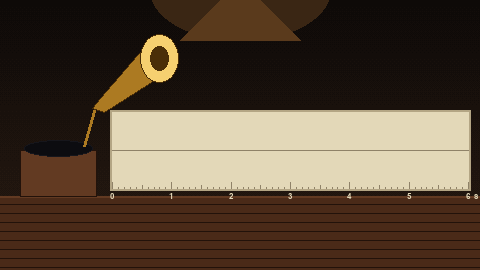
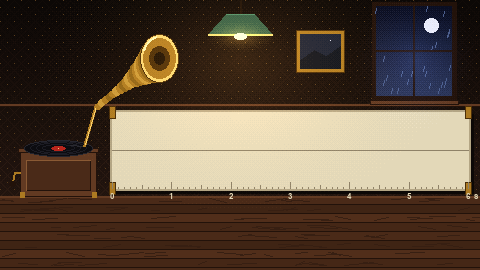
Visual pass on the Midnight Fall cold open and labs
Cold open: the manor's own tower at 2x in shadow, tilting up to the clock;
lightning lifts the shadow and shows the figure against the clock face.
Tower lab: per-block stone lit from the moon, clouds, the manor's roofline
behind the courtyard, lit arched doors with glow, corbelled balconies,
folded banners, wet cobbles, a banded surveyor's pole. Gramophone lab:
damask wallpaper, rainy window, green lamp light, plank desk, a banded
brass horn, a panelled cabinet, the strip pinned with brass clips.
fall_layout.json is unchanged, so the physics still lines up.

diff --git a/game/src/scenes/ColdOpen.ts b/game/src/scenes/ColdOpen.ts
@@ -11,7 +11,9 @@ let played = false;
 /** True once the cold open has played (or been skipped) in this page load. */
 export const coldOpenDone = () => played;
 
-const TOWER = { x: 340, top: 46 };
+// bx, top: the clock in manor_glitch (x 510, y 27) and on screen at 2x; TILT: how far below it the shot starts
+const TOWER = { x: 340, bx: 510, top: 54 };
+const TILT = 80;
 
 export class ColdOpen extends Phaser.Scene {
   private synths: Tone.ToneAudioNode[] = [];
@@ -25,17 +27,17 @@ export class ColdOpen extends Phaser.Scene {
     this.over = false;
     makePixel(this);
     this.add.rectangle(0, 0, W, H, 0x03040c).setOrigin(0).setDepth(0);
-    const sky = this.add.rectangle(0, 0, W, H, 0xb8c4dc).setOrigin(0).setAlpha(0).setDepth(1);
-
-    // the tower, a dark shape; the clock face glows a little
-    const g = this.add.graphics().setDepth(2);
-    g.fillStyle(0x0a0d22).fillRect(TOWER.x - 34, TOWER.top, 68, H - TOWER.top);
-    g.fillTriangle(TOWER.x - 40, TOWER.top, TOWER.x, TOWER.top - 40, TOWER.x + 40, TOWER.top);
-    const face = this.add.circle(TOWER.x, TOWER.top + 24, 15, 0xf0e6bc, 0.55).setDepth(3);
-    this.add.graphics().setDepth(3).lineStyle(1, 0x0a0d22).lineBetween(TOWER.x, TOWER.top + 24, TOWER.x, TOWER.top + 12);
-    // the figure on a balcony: small, dark, and no balcony drawn, so nobody knows which
-    const figure = this.add.graphics().setDepth(4).setAlpha(0);
-    figure.fillStyle(0x03040c).fillRect(TOWER.x - 4, 138, 8, 20).fillCircle(TOWER.x, 134, 5);
+    // the manor's own tower at 2x, held in shadow; the shot tilts up from the courtyard to the clock
+    const g = this.add.container(0, -TILT).setDepth(2);
+    g.add(this.add.image(TOWER.x - TOWER.bx * 2, 0, "manor_glitch").setOrigin(0).setScale(2));
+    const shade = this.add.rectangle(0, 0, W, H, 0x03040c, 0.55).setOrigin(0).setDepth(2.5);
+    const sky = this.add.rectangle(0, 0, W, H, 0xb8c4dc).setOrigin(0).setAlpha(0).setDepth(2.6).setBlendMode(Phaser.BlendModes.ADD);
+    const face = this.add.circle(TOWER.x, TOWER.top, 22, 0xf0e6bc, 0.25).setBlendMode(Phaser.BlendModes.ADD);
+    // the figure, a silhouette on the clock ledge: no balcony, so nobody knows which
+    const figure = this.add.graphics().setAlpha(0);
+    figure.fillStyle(0x03040c).fillRect(TOWER.x - 5, TOWER.top + 4, 10, 22).fillCircle(TOWER.x, TOWER.top - 1, 6);
+    g.add([face, figure]);
+    this.tweens.add({ targets: g, y: 0, duration: 8600, ease: "Sine.easeInOut" });
 
     this.add.particles(0, 0, "px", {
       x: { min: 0, max: W + 40 }, y: -10, speedY: { min: 320, max: 400 }, speedX: -50, lifespan: 800, frequency: 16, quantity: 2,
@@ -43,19 +45,21 @@ export class ColdOpen extends Phaser.Scene {
     }).setDepth(6);
 
     const flash = (ms: number) => {
-      sky.setAlpha(0.92);
+      sky.setAlpha(0.35);
+      shade.setAlpha(0);
       this.tweens.add({ targets: sky, alpha: 0, duration: ms, ease: "Quad.easeOut" });
+      this.tweens.add({ targets: shade, alpha: 0.55, duration: ms * 1.6, ease: "Quad.easeIn" });
     };
 
     // the timeline, in ms from the start
     const at = (ms: number, fn: () => void) => this.time.delayedCall(ms, () => { if (!this.over) fn(); });
-    at(800, () => this.tweens.add({ targets: face, alpha: 0.85, duration: 1200 }));
+    at(800, () => this.tweens.add({ targets: face, alpha: 0.5, duration: 1200 }));
     for (let n = 0; n < 12; n++) at(1600 + n * 600, () => { this.bell(n === 11); this.tweens.add({ targets: face, scale: 1.12, duration: 90, yoyo: true }); });
     at(9200, () => { figure.setAlpha(1); flash(420); sfx("rumble"); });
     at(9800, () => figure.setAlpha(0));
     at(10600, () => this.cry());
     at(12100, () => { sfx("thunk"); this.cameras.main.shake(120, 0.01); });
-    at(12400, () => this.tweens.add({ targets: [face, g], alpha: 0, duration: 200 }));
+    at(12400, () => this.tweens.add({ targets: g, alpha: 0, duration: 200 }));
     at(13000, () => {
       const title = this.add.text(W / 2, H / 2, "THE MIDNIGHT FALL", { fontFamily: DISPLAY, fontSize: "26px", color: "#F2E9CF" })
         .setOrigin(0.5).setAlpha(0).setDepth(20);

diff --git a/art/world/build_fall_labs.py b/art/world/build_fall_labs.py
@@ -54,45 +54,119 @@ def y_of(m):
     return round(GROUND - m * PX_PER_M)
 
 
+BAYER = np.array([[0, 8, 2, 10], [12, 4, 14, 6], [3, 11, 1, 9], [15, 7, 13, 5]]) / 16.0
+
+
+def light(im, cx, cy, rx, ry, col, k, mix=False):
+    """A soft elliptical pool of light (added) or haze (mixed toward col), quantised in dithered steps."""
+    a = np.asarray(im).astype(float)
+    h, w = a.shape[:2]
+    yy, xx = np.mgrid[0:h, 0:w]
+    f = np.clip(1 - np.hypot((xx - cx) / rx, (yy - cy) / ry), 0, 1) ** 2 * k
+    f = (np.floor(f * 6 + BAYER[yy % 4, xx % 4]) / 6)[..., None]
+    c = np.array(_rgb(col), float)
+    a[..., :3] = a[..., :3] * (1 - f) + c * f if mix else a[..., :3] + c * f
+    return Image.fromarray(np.clip(a, 0, 255).astype(np.uint8), "RGBA")
+
+
+def shade(hexcol, k):
+    return tuple(int(min(255, v * k)) for v in _rgb(hexcol))
+
+
 def lab_tower():
-    im = sky(W, H, NIGHT, NIGHT2)
-    d = ImageDraw.Draw(im)
     rng = np.random.default_rng(5)
-    for _ in range(40):
-        x, y = rng.integers(0, W), rng.integers(0, 150)
-        d.point((x, y), fill="#C9D8FF" if rng.random() < 0.5 else "#5A6A9A")
-    d.ellipse((400, 20, 418, 38), fill="#D8DCEC")
-    d.ellipse((404, 25, 409, 30), fill="#9AA0B8")
-    # the tower, in coursed stone, with the clock at the top
-    d.rectangle((TOWER_L, 20, WALL_X, GROUND), fill=STONE)
+    im = sky(W, H, "#04050C", "#1C1E36")
+    # moon, clouds catching its light, a far ridge and the manor's dark roofline behind the courtyard
+    im = light(im, 409, 29, 70, 60, "#2A3458", 0.9)
+    for cx, cy, rx, ry in ((330, 46, 110, 9), (440, 70, 90, 7), (90, 30, 120, 8), (250, 96, 140, 6)):
+        im = light(im, cx, cy, rx, ry, "#3A4468", 0.85, mix=True)
+    d = ImageDraw.Draw(im)
+    for _ in range(70):
+        x, y = rng.integers(0, W), rng.integers(0, 140)
+        d.point((x, y), fill="#C9D8FF" if rng.random() < 0.4 else "#5A6A9A")
+    d.ellipse((400, 20, 418, 38), fill="#E4E6F2")
+    d.ellipse((404, 25, 409, 30), fill="#A8AEC6")
+    d.ellipse((411, 30, 414, 33), fill="#B8BED4")
+    d.polygon([(0, 214), (60, 200), (130, 206), (240, 196), (330, 204), (420, 194), (480, 202), (480, GROUND), (0, GROUND)],
+              fill="#10121E")
+    for x0, x1, top in ((270, 330, 214), (330, 400, 208), (400, 480, 216)):
+        d.rectangle((x0, top, x1, GROUND), fill="#0B0C16")
+        d.polygon([(x0 - 4, top), (x1 + 4, top), ((x0 + x1) / 2, top - 14)], fill="#0B0C16")
+        for wx in range(x0 + 8, x1 - 6, 16):
+            if rng.random() < 0.45:
+                d.rectangle((wx, top + 10, wx + 3, top + 15), fill="#C08A40")
+    # the tower: coursed stone, each block its own tone, lit from the moon on the right
+    tones = ["#2A2A36", "#30303E", "#383846", "#40404E", "#4A4A5A"]
     for row, y in enumerate(range(20, GROUND, 6)):
-        d.line((TOWER_L, y, WALL_X, y), fill=STONE_D)
-        for x in range(TOWER_L + (5 if row % 2 else 0), WALL_X, 10):
-            d.line((x, y, x, y + 5), fill=STONE_D)
-    d.line((WALL_X, 20, WALL_X, GROUND), fill=STONE_L, width=2)
-    d.polygon([(TOWER_L - 4, 20), (WALL_X + 4, 20), ((TOWER_L + WALL_X) / 2, -30)], fill="#1C2232")
-    cx, cy = (TOWER_L + WALL_X) // 2, 34
+        for x in range(TOWER_L - (5 if row % 2 else 0), WALL_X, 10):
+            t = int(np.clip(rng.integers(0, 3) + (x - TOWER_L) / (WALL_X - TOWER_L) * 2.2, 0, 4))
+            d.rectangle((max(x, TOWER_L), y, min(x + 9, WALL_X - 1), y + 5), fill=tones[t])
+            d.line((max(x, TOWER_L), y, min(x + 8, WALL_X - 1), y), fill=shade(tones[t], 1.18))
+        d.line((TOWER_L, y + 5, WALL_X, y + 5), fill="#16161E")
+    d.line((WALL_X - 1, 20, WALL_X - 1, GROUND), fill="#7A8098")
+    d.line((TOWER_L, 20, TOWER_L, GROUND), fill="#121218", width=2)
+    for y in (70, 110, 170, 226):                          # arrow slits
+        d.rectangle((TOWER_L + 18, y, TOWER_L + 20, y + 9), fill="#08080E")
+    for _ in range(40):                                    # ivy at the foot
+        x, y = TOWER_L + rng.integers(-4, 40), GROUND - rng.integers(0, 50) * rng.random()
+        d.ellipse((x, y, x + 4, y + 3), fill="#1E3426" if rng.random() < 0.6 else "#2C4A34")
+    # slate roof with a ridge highlight, a cornice, and the clock in a brass ring with hour ticks
+    mx = (TOWER_L + WALL_X) / 2
+    d.polygon([(TOWER_L - 6, 20), (WALL_X + 6, 20), (mx, -30)], fill="#1C2232")
+    for k in range(1, 8):
+        y = 20 - k * 6
+        hw = (WALL_X - TOWER_L + 12) / 2 * (1 - k * 6 / 50)
+        d.line((mx - hw, y, mx + hw, y), fill="#283048")
+    d.line((mx, -30, WALL_X + 6, 20), fill="#4A5470")
+    d.rectangle((TOWER_L - 6, 19, WALL_X + 6, 22), fill="#4A4A5A", outline="#16161E")
+    cx, cy = int(mx), 36
+    d.ellipse((cx - 12, cy - 12, cx + 12, cy + 12), fill=BRASS_D)
     d.ellipse((cx - 11, cy - 11, cx + 11, cy + 11), fill=BRASS)
-    d.ellipse((cx - 9, cy - 9, cx + 9, cy + 9), fill=PAPER)
+    d.ellipse((cx - 9, cy - 9, cx + 9, cy + 9), fill="#F2E6C0")
+    for k in range(12):
+        an = k * np.pi / 6
+        d.point((cx + round(7.5 * np.sin(an)), cy - round(7.5 * np.cos(an))), fill=INK)
     d.line((cx, cy, cx, cy - 7), fill=INK, width=2)
-    # the balconies, sticking out of the front face, each under a lit door, each flying its owner's banner
+    d.line((cx, cy, cx + 4, cy + 1), fill=INK)
+    # the balconies: a lit arched door, a stone slab on a corbel, an iron rail, the owner's banner with folds
     floors = {}
     for sid, m in BALCONIES.items():
         y = y_of(m)
         floors[sid] = {"metres": m, "x": WALL_X + 18, "y": y}
-        d.rectangle((WALL_X - 14, y - 22, WALL_X - 2, y - 1), fill=CANDLE)
-        d.polygon([(WALL_X - 14, y - 22), (WALL_X - 2, y - 22), (WALL_X - 8, y - 28)], fill=CANDLE)
-        d.rectangle((WALL_X, y, WALL_X + 30, y + 3), fill=STONE_L, outline=STONE_D)
-        d.line((WALL_X + 30, y - 10, WALL_X + 30, y), fill="#6A7080", width=2)
-        d.line((WALL_X, y - 10, WALL_X + 30, y - 10), fill="#6A7080", width=2)
+        d.rectangle((WALL_X - 16, y - 24, WALL_X - 1, y), fill="#5A5A6C")
+        d.polygon([(WALL_X - 16, y - 24), (WALL_X - 1, y - 24), (WALL_X - 8, y - 31)], fill="#5A5A6C")
+        d.rectangle((WALL_X - 14, y - 22, WALL_X - 3, y - 1), fill=CANDLE)
+        d.polygon([(WALL_X - 14, y - 22), (WALL_X - 3, y - 22), (WALL_X - 8, y - 28)], fill=CANDLE)
+        d.rectangle((WALL_X - 12, y - 20, WALL_X - 5, y - 1), fill="#FFE2A0")
+        d.line((WALL_X - 9, y - 26, WALL_X - 9, y - 1), fill="#9A6428")
+        d.line((WALL_X - 14, y - 12, WALL_X - 3, y - 12), fill="#9A6428")
+        d.polygon([(WALL_X, y + 3), (WALL_X + 8, y + 3), (WALL_X, y + 10)], fill="#30303E")
+        d.rectangle((WALL_X, y, WALL_X + 30, y + 3), fill="#5A5A6C", outline="#1C1C26")
+        d.line((WALL_X, y, WALL_X + 30, y), fill="#8A90A8")
+        d.line((WALL_X + 30, y - 10, WALL_X + 30, y), fill="#2A2E38", width=2)
+        d.line((WALL_X, y - 10, WALL_X + 30, y - 10), fill="#3A4050", width=2)
+        d.line((WALL_X, y - 11, WALL_X + 30, y - 11), fill="#8A90A8")
         for x in range(WALL_X + 4, WALL_X + 30, 5):
-            d.line((x, y - 10, x, y), fill="#6A7080")
-        d.rectangle((WALL_X + 8, y + 4, WALL_X + 20, y + 18), fill=BANNER[sid])
-        d.polygon([(WALL_X + 8, y + 18), (WALL_X + 20, y + 18), (WALL_X + 14, y + 13)], fill=STONE)
-    # the courtyard: cobbles, the chalk outline 4.5 m out, a ground ruler in metres
-    d.rectangle((0, GROUND, W, H), fill=COBBLE)
-    for x in range(0, W, 7):
-        d.line((x, GROUND + 1, x + 3, H), fill=COBBLE_D)
+            d.line((x, y - 10, x, y), fill="#2A2E38")
+        b = BANNER[sid]
+        d.rectangle((WALL_X + 8, y + 4, WALL_X + 20, y + 18), fill=b)
+        d.line((WALL_X + 11, y + 5, WALL_X + 11, y + 15), fill=shade(b, 0.65))
+        d.line((WALL_X + 17, y + 5, WALL_X + 17, y + 15), fill=shade(b, 1.3))
+        d.line((WALL_X + 8, y + 4, WALL_X + 20, y + 4), fill=BRASS_L)
+        d.polygon([(WALL_X + 8, y + 18), (WALL_X + 20, y + 18), (WALL_X + 14, y + 13)], fill="#30303E")
+    for m in BALCONIES.values():
+        im = light(im, WALL_X - 8, y_of(m) - 12, 30, 26, "#7A4A14", 0.7)
+    im = light(im, mx, 36, 26, 26, "#5A4A20", 0.6)
+    d = ImageDraw.Draw(im)
+    # wet cobbles, a puddle holding the moon, the chalk outline 4.5 m out, a ground ruler in metres
+    d.rectangle((0, GROUND, W, H), fill="#14141C")
+    for r, y in enumerate(range(GROUND + 1, H, 4)):
+        for x in range(-(r % 2) * 4, W, 8):
+            d.ellipse((x, y, x + 7, y + 3), fill=["#22222E", "#282834", "#2E2E3C"][rng.integers(0, 3)])
+            d.line((x + 2, y, x + 4, y), fill="#3E4052")
+    d.ellipse((380, GROUND + 3, 452, GROUND + 9), fill="#1A2034")
+    d.line((404, GROUND + 5, 418, GROUND + 5), fill="#9AA4C8")
+    d.rectangle((WALL_X - 2, GROUND + 5, WALL_X + 222, GROUND + 20), fill="#101018")
     ox = round(WALL_X + OUTLINE_M * PX_PER_M)
     d.ellipse((ox - 16, GROUND - 1, ox + 16, GROUND + 5), outline="#F2F4FA")
     d.ellipse((ox - 24, GROUND, ox - 16, GROUND + 4), outline="#F2F4FA")
@@ -103,9 +177,12 @@ def lab_tower():
         if k % 5 == 0:
             d.text((x - 3, GROUND + 11), f"{k}", font=small, fill=PAPER)
     d.line((WALL_X, GROUND + 6, WALL_X + 220, GROUND + 6), fill=PAPER_D)
-    # the metre strip up the wall: a tick every metre, numbered every five
+    # the metre strip: a surveyor's pole up the wall, banded red every other metre, numbered every five
     sx = TOWER_L - 22
+    d.rectangle((sx - 1, y_of(21) - 1, sx + 11, GROUND), fill="#1C140C")
     d.rectangle((sx, y_of(21), sx + 10, GROUND), fill=PAPER, outline=RULE)
+    for k in range(0, 21, 2):
+        d.rectangle((sx + 7, y_of(k + 1) + 1, sx + 9, y_of(k) - 1), fill="#B8251C")
     for k in range(0, 22):
         y = y_of(k)
         d.line((sx, y, sx + (10 if k % 5 == 0 else 5), y), fill=INK)
@@ -118,26 +195,89 @@ def lab_tower():
 
 
 def lab_gramophone():
-    im = sky(W, H, "#0E0A08", "#2A1C12")
+    rng = np.random.default_rng(9)
+    im = sky(W, H, "#0C0806", "#2A1A12")
+    # damask wallpaper: a diamond lattice with a dot at every crossing
+    a = np.asarray(im).copy()
+    wall = a[:196]
+    yy, xx = np.mgrid[0:196, 0:W]
+    lat = ((xx + yy) % 14 == 0) | ((xx - yy) % 14 == 0)
+    wall[lat, :3] = (wall[lat, :3] * 1.45).clip(0, 255).astype(np.uint8)
+    wall[((xx + yy) % 14 == 7) & ((xx - yy) % 14 == 7), :3] = _rgb("#5A3E1E")
+    im = Image.fromarray(a, "RGBA")
     d = ImageDraw.Draw(im)
-    # a desk under a lamp, the gramophone on the left, a long paper strip for the trace
-    d.rectangle((0, 196, W, H), fill=WOOD)
+    d.line((0, 104, W, 104), fill=WOOD_L, width=2)
+    d.line((0, 106, W, 106), fill=WOOD_D)
+    # a tall window, moonlight and rain beyond it
+    wx0, wy0, wx1, wy1 = 376, 6, 452, 96
+    d.rectangle((wx0 - 4, wy0 - 4, wx1 + 4, wy1 + 6), fill=WOOD_D)
+    im.paste(sky(wx1 - wx0, wy1 - wy0, "#0A0E22", "#2A3456"), (wx0, wy0))
+    d = ImageDraw.Draw(im)
+    d.ellipse((424, 18, 438, 32), fill="#E4E6F2")
+    for _ in range(26):
+        x, y = rng.integers(wx0, wx1), rng.integers(wy0, wy1 - 6)
+        d.line((x, y, x - 1, y + 5), fill="#4A5C88")
+    d.rectangle((wx0, (wy0 + wy1) // 2 - 1, wx1, (wy0 + wy1) // 2), fill=WOOD_D)
+    d.rectangle(((wx0 + wx1) // 2 - 1, wy0, (wx0 + wx1) // 2, wy1), fill=WOOD_D)
+    d.rectangle((wx0 - 6, wy1 + 4, wx1 + 6, wy1 + 8), fill=WOOD_L, outline=WOOD_D)
+    # a small gilt-framed landscape
+    d.rectangle((296, 30, 344, 72), fill=BRASS, outline=BRASS_D)
+    d.rectangle((300, 34, 340, 68), fill="#1A2234")
+    d.polygon([(300, 60), (314, 50), (326, 56), (340, 46), (340, 68), (300, 68)], fill="#0E141E")
+    d.point((330, 40), fill="#D8DCEC")
+    # the hanging lamp: cord, a green glass shade, a brass rim
+    d.line((240, 0, 240, 14), fill="#1A1008", width=2)
+    d.polygon([(226, 14), (254, 14), (272, 34), (208, 34)], fill="#2E5A44")
+    d.line((226, 14, 254, 14), fill="#4A8A68")
+    d.line((208, 34, 272, 34), fill=BRASS_L, width=2)
+    d.ellipse((234, 33, 246, 39), fill="#FFF0C0")
+    # the desk: planks, each its own tone, with grain
+    for i, y in enumerate(range(196, H, 9)):
+        d.rectangle((0, y, W, y + 8), fill=shade(WOOD, [1.0, 0.86, 1.1, 0.94][i % 4]))
+        d.line((0, y + 8, W, y + 8), fill=WOOD_D)
+        for _ in range(14):
+            x = rng.integers(0, W)
+            d.line((x, y + rng.integers(2, 7), x + rng.integers(8, 30), y + rng.integers(2, 7)), fill=shade(WOOD, 0.75))
     d.line((0, 196, W, 196), fill=WOOD_L, width=2)
-    for y in range(204, H, 9):
-        d.line((0, y, W, y), fill=WOOD_D)
-    d.ellipse((150, -60, 330, 40), fill="#3A2614")
-    d.polygon([(220, 0), (260, 0), (300, 40), (180, 40)], fill="#5A3A1C")
-    # the gramophone
+    # the gramophone: a panelled cabinet, a crank, a record with grooves and a red label, the tonearm
     d.rectangle((20, 150, 96, 196), fill=WOOD_L, outline=WOOD_D)
-    d.ellipse((24, 140, 92, 156), fill="#0C0C10", outline="#16161C")
+    d.rectangle((26, 160, 90, 190), fill=WOOD, outline=WOOD_D)
+    d.line((26, 160, 90, 160), fill="#8A5A34")
+    d.line((26, 160, 26, 190), fill="#8A5A34")
+    for x in (20, 92):
+        d.rectangle((x, 192, x + 4, 197), fill=BRASS)
+    d.line((14, 172, 20, 172), fill=BRASS, width=2)
+    d.line((14, 172, 12, 182), fill=BRASS, width=2)
+    d.ellipse((9, 181, 15, 186), fill=WOOD_D)
+    d.rectangle((18, 148, 98, 152), fill=WOOD_L, outline=WOOD_D)
+    d.ellipse((24, 140, 92, 156), fill="#0C0C10", outline="#26262E")
+    for r in (28, 22, 16):
+        d.ellipse((58 - r, 148 - r * 0.24, 58 + r, 148 + r * 0.24), outline="#1C1C24")
+    d.ellipse((51, 146, 65, 150), fill="#B8251C")
+    d.point((58, 148), fill=BRASS_L)
+    d.line((70, 145, 84, 146), fill="#2A2A30")
     d.line((84, 146, 96, 104), fill=BRASS, width=3)
-    d.polygon([(92, 108), (100, 98), (150, 40), (170, 70), (104, 112)], fill=BRASS, outline=BRASS_D)
+    d.line((85, 144, 96, 106), fill=BRASS_L)
+    # the horn: a flared cone built out of rings, banded like brass petals
+    n = 16
+    for i in range(n + 1):
+        t = i / n
+        x, y = 98 + (159 - 98) * t, 106 + (58 - 106) * t
+        rx, ry = 3 + 16 * t ** 2.2, 3 + 21 * t ** 2.2
+        d.ellipse((x - rx, y - ry, x + rx, y + ry), fill=[BRASS, "#C89838", BRASS, "#8E6418"][i % 4])
     d.ellipse((140, 34, 178, 82), fill=BRASS_L, outline=BRASS_D)
-    d.ellipse((150, 46, 168, 70), fill=BRASS_D)
-    # the paper strip: six seconds across, a tick every tenth, a number every second
+    d.ellipse((143, 38, 175, 78), fill=BRASS)
+    d.ellipse((149, 46, 169, 70), fill=BRASS_D)
+    d.ellipse((154, 52, 164, 64), fill="#1E1204")
+    d.arc((142, 36, 176, 80), 200, 260, fill="#FFF0B0", width=2)
+    # the paper strip, pinned at both ends with brass clips, casting a shadow on the wall
     x0, x1, y0, y1 = 112, 468, 112, 188
+    d.rectangle((x0 + 2, y0 + 2, x1 + 5, y1 + 5), fill="#0C0806")
     d.rectangle((x0 - 2, y0 - 2, x1 + 2, y1 + 2), fill=PAPER_D)
     d.rectangle((x0, y0, x1, y1), fill=PAPER)
+    for cx in (x0, x1):
+        d.rectangle((cx - 3, y0 - 6, cx + 3, y0 + 6), fill=BRASS, outline=BRASS_D)
+        d.rectangle((cx - 3, y1 - 6, cx + 3, y1 + 6), fill=BRASS, outline=BRASS_D)
     mid = (y0 + y1) // 2
     d.line((x0, mid, x1, mid), fill=RULE)
     small = _font("arialbd.ttf", 8)
@@ -148,6 +288,10 @@ def lab_gramophone():
         if k % 10 == 0:
             d.text((x - 2, y1 + 3), f"{k // 10}", font=small, fill=PAPER)
     d.text((x1 + 6, y1 + 3), "s", font=small, fill=PAPER)
+    # lamp light pooling over the desk and strip, a cool spill from the window
+    im = light(im, 240, 60, 230, 170, "#3A2610", 0.75)
+    im = light(im, 240, 36, 40, 18, "#6A5020", 0.8)
+    im = light(im, 414, 60, 70, 80, "#18203A", 0.6)
     im.save(os.path.join(OUT, "lab_gramophone.png"))
     return {"strip": {"x0": x0, "x1": x1, "y0": y0, "y1": y1, "mid": mid, "seconds": 6.0, "px_per_s": per_s}}
 
